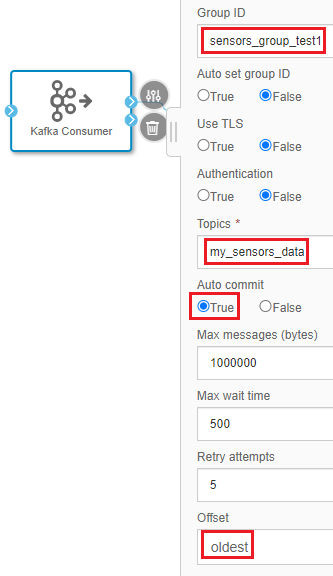
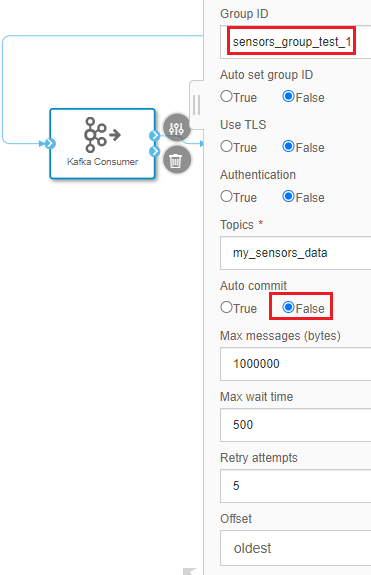
update

Changed region(s): [[0.0, 0.0, 1.0, 1.0], [0.5706, 0.207, 0.7508, 0.2661], [0.7508, 0.2365, 0.9009, 0.2661]]

diff --git a/README.md b/README.md
@@ -8,7 +8,7 @@ The below figure shows a simple example pipeline provided by SAP Data Intelligen
 It looks good if it is only for a demonstration purpose. However, in reality we cannot take the assumption that everything works just fine in a distributed environment. The pipeline execution might be dead if something unexpected occurred. For example, what if there is a temporal network partition and the HANA Client connection timeout? We need our pipeline executed in a fault-tolerant way. 
 
 - The data generator should decouple from its consumers. And it should be able to continue generate messages regardless if the consumers failed or not. 
-- Regardless of what caused the consumer failure and how long the failure lasts, it should be able to recover by picking up the data at the place where it left during the failure period instead of processing from scratch.This will save the processing time.
+- Regardless of what caused the consumer failure and how long the failure lasts, it should be able to recover by picking up the data at the place where it left during the failure period instead of processing from the beginning. This will save the processing time.
 - Losing data or duplicated processing data will casue the derived HANA database table go permanently out of sync with the data generator. Thus message delivery must be reliable. 
 
 Next, we will look at how to improve the pipeline to address these issues.
@@ -87,8 +87,6 @@ Check the HANA Database table to verify the ingested data:
 
 ![](images/HanaOutputAtMostOnceFirst.png)
 
-Compare the difference between the comsumed offsets in Wiretap and HANA table. We can see HANA has processed the message at offset 4 while Wiretap operator at offset 3. This is because when the pipeline failed, the message has not yet sent to the wiretap operator.
-
 Note that the two offsets are not exactly the same thing:
 - The offset in Wiretap is an offset Kafka assgined to each message which is a monotonically increasing sequence number.
 - The offset (the counter variable) in HANA table is actually a field we added when the data generator generates every message. It is also a monotonically increasing sequence number like below code:
@@ -130,7 +128,48 @@ function doTick(ctx) {
 }
 
 ```
-Although these two offsets are not the same thing, they are actually equivalent since the generated messages are sent to the same Kafka partition in an append-only fashon. We will use them to help us understand the message message delivery guarantee by comparing their value.  
+> Although these two offsets are not the same thing, they are actually equivalent since the generated messages are sent to the same Kafka partition in an append-only fashion. The reason why they show different values is that when the pipeline failed, the upstream message in HANA has not sent to the wiretap operator yet.
 
+Now restart the faild graph, repeat above process and observe the result.
 
-Now restart the faild graph, and run it for a while. 
+To save space, I record the output offset ranges in below table(I will not list wiretap output since it is not relevant for the later discussion):
+
+Run | HANA Table
+---|---|---
+first | 0 - 4
+second | 8 - 11
+
+From this table, we can see that some messges are lost between the two run. HANA table lose messges at offset 5, 6, and 7. In this case, we say the pipeline only processing message at most once when recoverd from error. This is not a fault-tolerant stream processing.
+
+Now let's see if we can improve this guarantee.
+
+### 4.2. At least once delivery guarantee
+From the above discussion, we can see the reason why there is message lose in the HANA table is that the message offset picked in the second run is not correct. The commited offset of the Kafka consumer did not reflect the actual position HANA table consumed.
+
+To fix this problem, the HANA Client operator needs to explicitly tell Kafka when it has finished processing a message. Without Kafka receiving an acknowledgment, the message offset in that partition will not get committed. This effectively keep the committed offset of the Kafka topic partition in sync with HANA table message consumption.
+
+Fortunately, we can implement this simply by connecting the "SAP HANA Client" operator with the "Kafka consumer operator" like the below figure illustrated:
+
+![](images/consumerAtLeastOnce.png)
+
+Also, change the Kafka consumer operator configuration like below:
+
+![](images/KafkaConsumerAtLeastOnceConfig.png)
+
+We changed the "Auto Commit" option from "True" to "False".
+
+> Note that "Group ID" configuration also has been changed, this actually make the consumer a brand new consumer for the same topic partition. Thus, the commited offset for this new comsumer is at the beginning of the partition. This is a huge benefit Kafka provides since we can testing new idea very eaisly simply by adding a new consumer.
+
+Now repeat the same steps like we did before. I record the output offset ranges in below table:
+Run | HANA Table
+---|---|---
+first | 0 - 5
+second | 5 - 9
+
+We can see that HANA table this time did not lose any messages. But the message at offset 5 was processed twice. In this case, we say the pipeline processing message at least once when recoverd from error. This is not a fault-tolerant stream processing as well since duplicated message processing may cause data corruption in some cases. For example, in the data integration scenario I mentioned in [blog](https://blogs.sap.com/2020/06/15/buid-log-based-integration-with-sap-data-intelligence/), if the derived systems processing message twice may cause the source system and derive systems permanently inconsistent.
+
+This duplicated message processing is caused by the message which has not been acknowledged by Kafka when the failure happend. Thus, Kafka will not commit that offset. When the graph restart, the message will be sent again.
+
+Next, we will discuss ways to do duplicate suppression.
+
+### 4.3. Exactly once delivery guarantee
